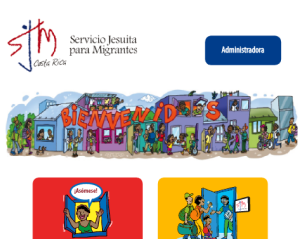
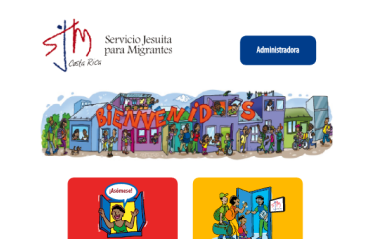
Mobile resizing

diff --git a/src/App.js b/src/App.js
@@ -11,7 +11,14 @@ import NavBar from './components/NavBar';
 import Landing from './components/Landing';
 import Section from './components/Section';
 import TabbedContent from './components/TabbedContent';
-import Project from './components/Project';
+import Projects from './components/Projects';
+
+import nicaAquaImage from './images/NicaAgua.png';
+import sjmImage from './images/SJM.png';
+import datingImage from './images/Dating_App.png';
+import businessImage from './images/Business_Reg.png';
+import auditImage from './images/Audit.png';
+
 
 import {
   ExternalLink,
@@ -35,7 +42,7 @@ function App() {
       fullTitle: "B.S. Web Design & Engineering @ Santa Clara University",
       dateString: "Sept 2017 - June 2021",
       listPoints: ["Minor in Computer Engineering", "GPA 3.6/4.0", "Graduated Cum Laude"],
-      other: "Relevant Coursework: TODO - BACHELORS COURSEWORK (and check GPA)"
+      other: "Relevant Coursework: Web Development, Web Infrastructure, Web Usability, Advanced Web Development, Software Engineering, Website Graphic Design, Engineering Communications"
     },
   ];
   const experienceItems = [
@@ -75,27 +82,32 @@ function App() {
     {
       title: "NicaAgua",
       description: "Mobile app that enables the deliver of water quality and weather information to farmers in real time. Used React Native, Node.js, MySQL hosted on AWS.",
-      icons: [{icon: <LinkedIn />, href: "https://www.linkedin.com/posts/frugal-innovation-hub_humanitarianengineering-humanitariantechnology-activity-6966160321241579520-SXUE?utm_source=linkedin_share&utm_medium=member_desktop_web"}, {icon:<PaperClip />, href:"https://scholarcommons.scu.edu/cseng_senior/204/"}]
+      icons: [{icon: <LinkedIn />, href: "https://www.linkedin.com/posts/frugal-innovation-hub_humanitarianengineering-humanitariantechnology-activity-6966160321241579520-SXUE?utm_source=linkedin_share&utm_medium=member_desktop_web"}, {icon:<PaperClip />, href:"https://scholarcommons.scu.edu/cseng_senior/204/"}],
+      img: nicaAquaImage,
     },
     {
       title: "Servicio Jesuita para Migrantes Costa Rica",
       description: "Web app providing resources for Costa Rican immigrants, including citizenship test practice and more. Used React, MongoDB.",
-      icons: [{icon: <ExternalLink />, href: "https://app.serviciojesuitacr.org/"}]
+      icons: [{icon: <ExternalLink />, href: "https://app.serviciojesuitacr.org/"}],
+      img: sjmImage,
     },
     {
       title: "Dating App Generator",
       description: "Co-creative system that writes dating app opening lines and profiles. Powered by GPT-3. Used Node.js, Express, HTML, Bootstrap.",
-      icons: [{icon: <Github />, href: "https://github.com/alexa-grau/dating-app-opening-lines"}]
+      icons: [{icon: <Github />, href: "https://github.com/alexa-grau/dating-app-opening-lines"}],
+      img: datingImage,
     },
     {
       title: "Alumni Business Registry",
       description: "Project featuring 140 SCU alumni-owned and affiliated businesses. Used TerminalFour CMS.",
-      icons: [{icon: <ExternalLink />, href: "https://www.scu.edu/alumni/bronco-business-registry/"}]
+      icons: [{icon: <ExternalLink />, href: "https://www.scu.edu/alumni/bronco-business-registry/"}],
+      img: businessImage,
     },
     {
       title: "Alumni Audit Program",
       description: "Undertook product management for program. Analyzed program requirements and translated outdated processes to use automated technologies.",
-      icons: [{icon: <ExternalLink />, href: "https://www.scu.edu/alumni/learn/takeaclass/class-audit-program/"}]
+      icons: [{icon: <ExternalLink />, href: "https://www.scu.edu/alumni/learn/takeaclass/class-audit-program/"}],
+      img: auditImage,
     },
     {
       title: "Portfolio",
@@ -117,7 +129,7 @@ function App() {
         <Landing />
         <Section id="about" title="About me" content={
             <Row>
-              <Col>
+              <Col sm="12" md="6">
                 <p>Hello! My name is Alexa &#40;if only my parents could have predicted that one&#41;. From a young age, I loved problem solving. Today, that looks like designing and developing apps, websites, and more &#45; deliverables that address the root of a user's problem.</p>
                 <p>I have my Master's of Science in Computer Science &amp; Engineering, and my Bachelor's of Science in Web Design &amp; Engineering. This degree combination gave me both the technical and creative tools to create excellent technology. In addition to my studies I was a NCAA Division I athlete, cementing my goal setting, time management, and teamwork skills.</p>
                 <p>Recently, I've been working with:</p>
@@ -126,7 +138,7 @@ function App() {
                   <Col><ul>{tech2Items}</ul></Col>
                 </Row>
               </Col>
-              <Col>
+              <Col sm="12" md="6">
                 <img id="aboutImage" src={myImage} alt="Alexa in from of the mission at the Santa Clara University campus" />
               </Col>
             </Row>
@@ -138,7 +150,7 @@ function App() {
             <TabbedContent items={experienceItems} />
           } />
         <Section id="projects" title="Projects" content={
-            <Project items={projects} />
+            <Projects items={projects} />
           } />
         <Section center intro="Like what you see?" id="contact" title="Contact" content={
             <div>

diff --git a/src/components/Projects/card.js b/src/components/Projects/card.js
@@ -1,0 +1,54 @@
+import './project.css';
+
+import {
+  Row, Col, Card, CardHeader, CardBody, CardTitle, CardText, CardFooter, CardImg, CardImgOverlay
+} from 'reactstrap';
+import { useState } from 'react';
+import Circle from '../Icons/Circle';
+
+function ProjectCard(args) {
+  // args: index, item {title, description}, icons
+  const [isShown, setIsShown] = useState(false);
+
+  return (
+    <Col md="6" lg="4" className="mb-4">
+    <Card
+        key={'project-'+args.index}
+        className='project h-100'
+        onMouseEnter={() => setIsShown(true)}
+        onMouseLeave={() => setIsShown(false)}
+    >
+      <CardHeader style={{fontSize:"1px"}}>
+          <Circle color="#FF605C"/>
+          <Circle color="#FFBD44"/>
+          <Circle color="#00CA4E"/>
+      </CardHeader>
+      <CardBody>
+        <CardTitle>{args.item.title}</CardTitle>
+        <CardText>{args.item.description}</CardText>
+      </CardBody>
+      <CardFooter className='w-100 d-inline-flex justify-content-end bg-transparent border-0'>
+        {args.icons}
+      </CardFooter>
+      {/* <CardImg 
+        alt="Card image"
+        src={args.item.img}
+        width="100%"
+      />
+      <CardImgOverlay>
+        {true && <div className='text-overlay'>
+          <CardBody>
+            <CardTitle>{args.item.title}</CardTitle>
+            <CardText>{args.item.description}</CardText>
+          </CardBody>
+          <CardFooter className='w-100 d-inline-flex justify-content-end bg-transparent border-0'>
+            {args.icons}
+          </CardFooter>
+        </div>}
+      </CardImgOverlay> */}
+    </Card>
+    </Col>
+  );
+}
+  
+export default ProjectCard;

diff --git a/src/components/Projects/index.js b/src/components/Projects/index.js
@@ -1,0 +1,25 @@
+import {
+    Row
+} from 'reactstrap';
+import ProjectCard from './card';
+
+function Projects(args) {
+//   let longest = {'index': -1, 'length': 0};
+  const projects = args.items.map((item, i) => {
+    // const itemLength = item.title.length+item.description.length;
+
+    // if(itemLength>longest.length) longest = {'index': i, 'length': itemLength};
+    const icons = item.icons.map((x) => {
+        return (<a key={'project-link-'+x.href} href={x.href} target="_blank">{x.icon}</a>);
+    });
+    return (<ProjectCard key={"project-card-"+i} index={i} item={item} icons={icons} />);
+  });
+//   console.log(longest);
+  return (
+    <Row>
+        {projects}
+    </Row>
+  );
+}
+
+export default Projects;

diff --git a/src/components/Projects/project.css b/src/components/Projects/project.css
@@ -1,0 +1,16 @@
+.card-img-overlay .text-overlay {
+    background-color: rgba(255,255,255,.95);
+    /* position: absolute;
+    top:2rem;
+    left:0;
+    right:0; */
+}
+
+.card-title {
+    font-weight: bold;
+}
+
+.card-footer a {
+    margin-left: 0.75rem;
+    color:var(--bs-card-color);
+}

diff --git a/src/components/TabbedContent/index.js b/src/components/TabbedContent/index.js
@@ -42,7 +42,7 @@ function Tabbed(args) {
   
     return (
         <Row>
-            <Col md='4'>
+            <Col md='4' className="mb-4" >
                 <Nav pills>{tabs}</Nav>
                 <div className='styledLine'></div>
             </Col>
